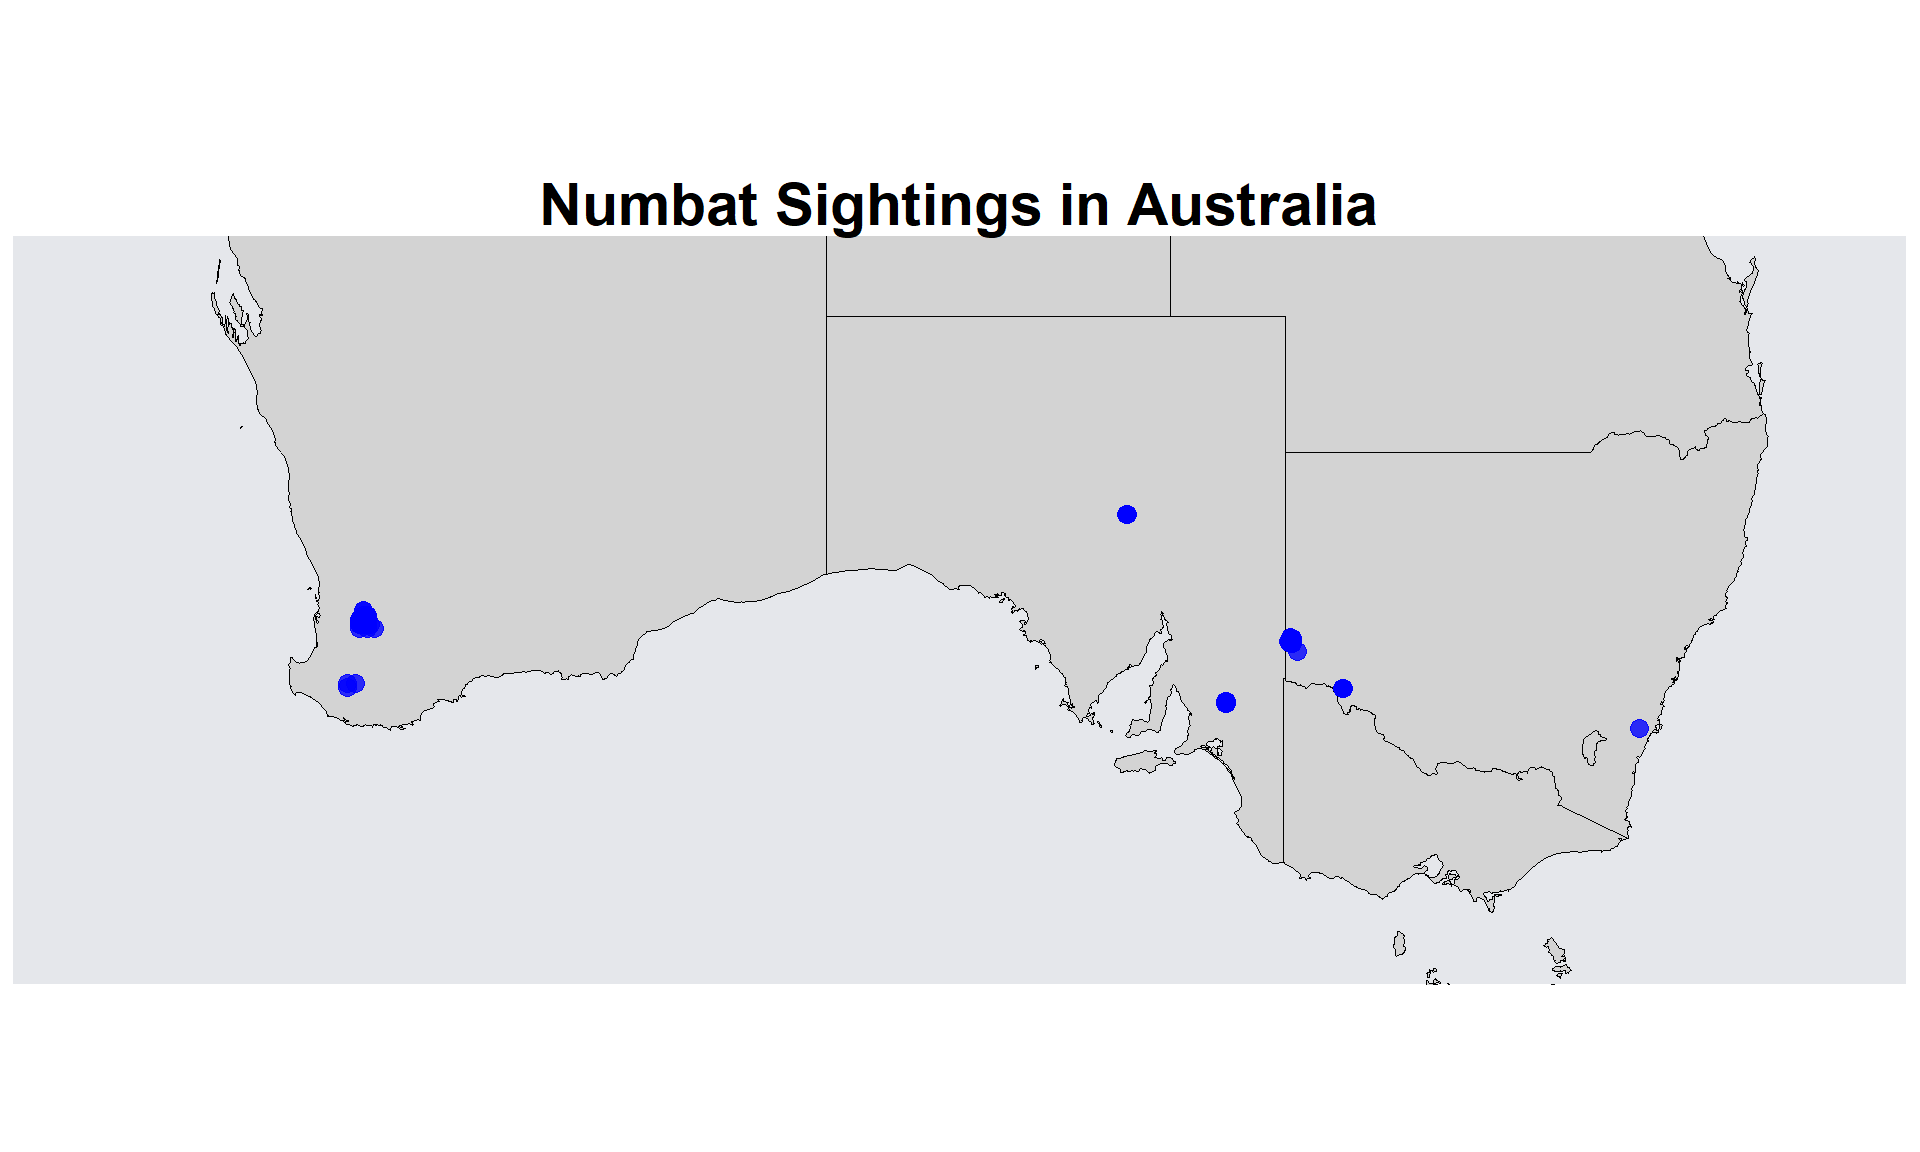
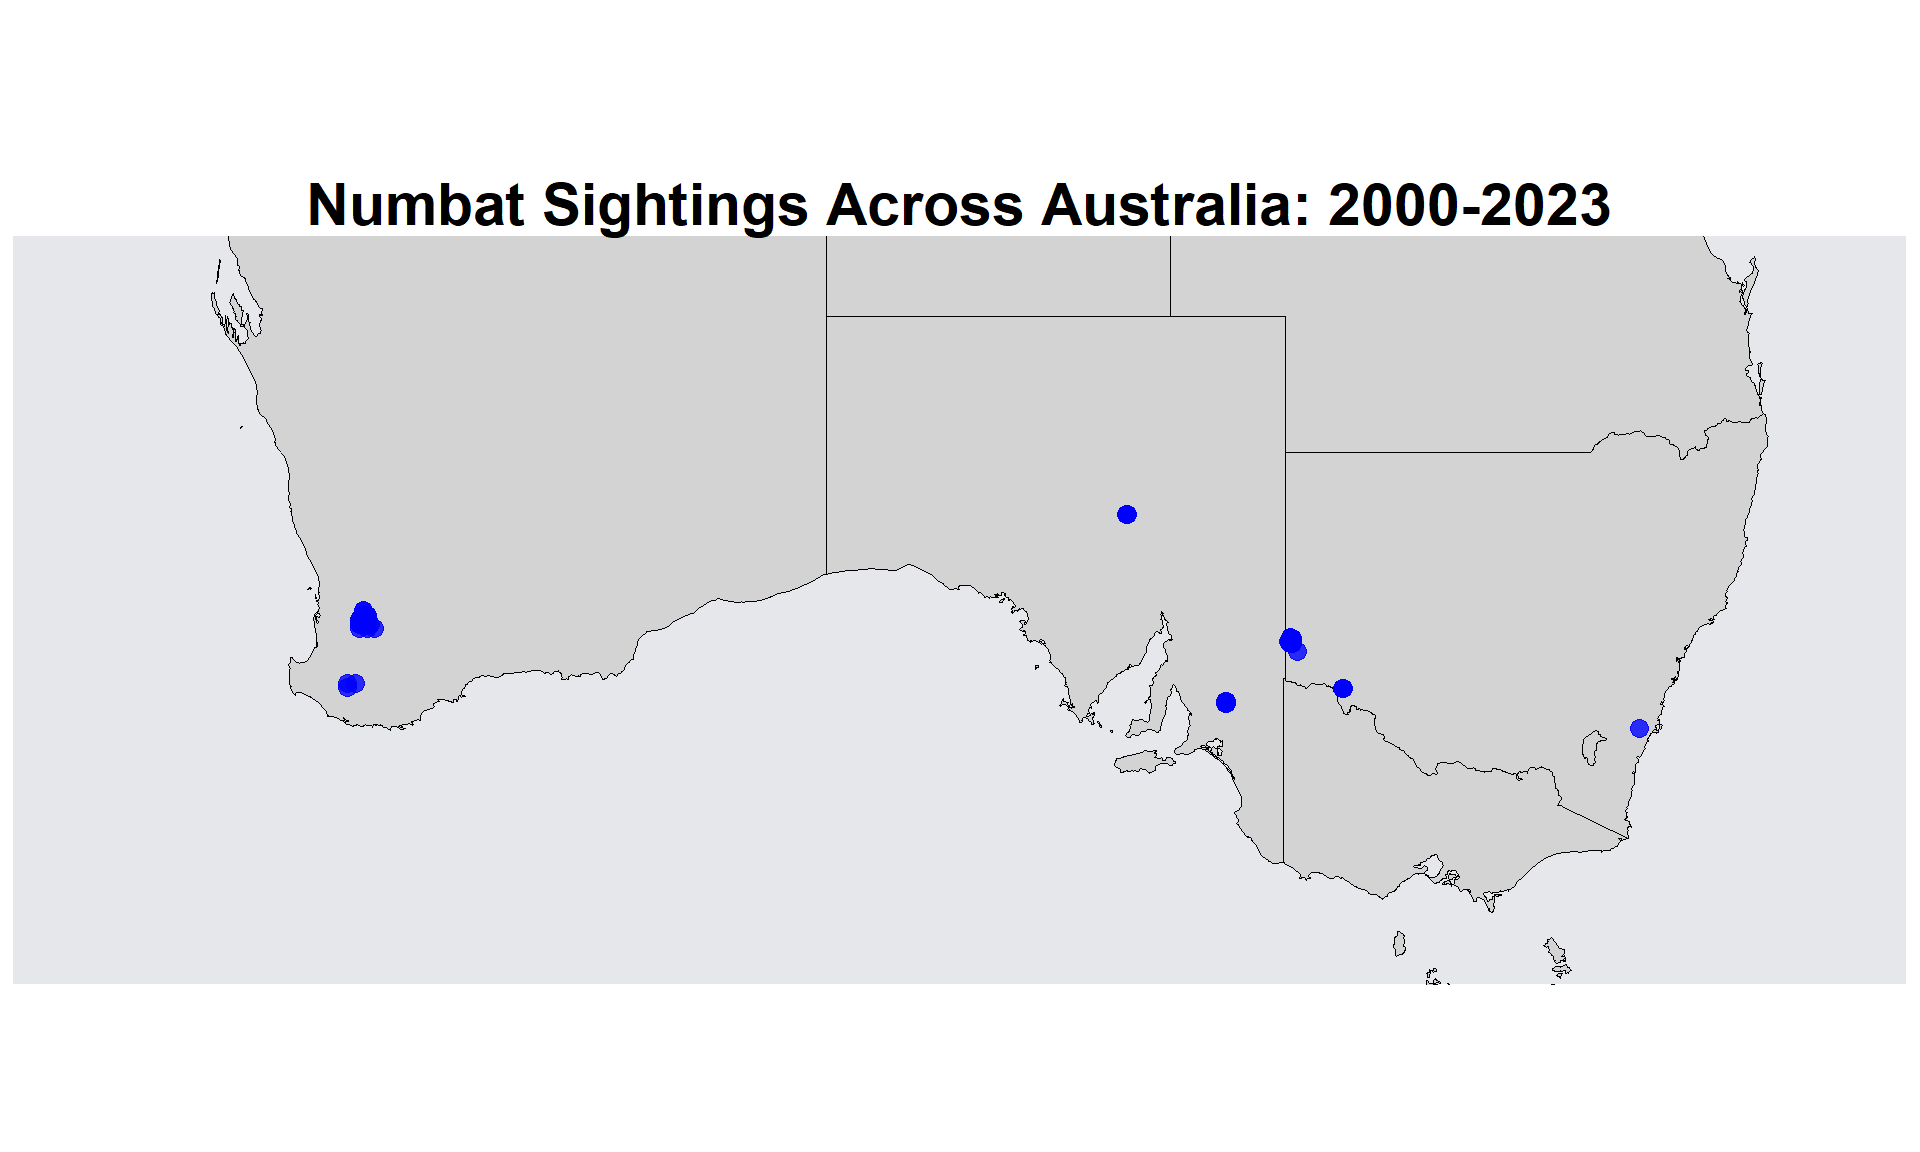
update the style.css, _quarto.yml and index.qmd file of post folder

Changed region(s): [[0.1562, 0.1562, 0.8438, 0.2188]]

diff --git a/docs/posts/welcome/index.html b/docs/posts/welcome/index.html
@@ -153,7 +153,12 @@ div.csl-indent {
 <span class="menu-text">About</span></a>
   </li>  
   <li class="nav-item compact">
-    <a class="nav-link" href="https://github.com/etc5523-2022"> <i class="bi bi-github" role="img">
+    <a class="nav-link" href="https://github.com/yasin27mohammad"> <i class="bi bi-github" role="img">
+</i> 
+<span class="menu-text"></span></a>
+  </li>  
+  <li class="nav-item compact">
+    <a class="nav-link" href="https://www.linkedin.com/in/mohammad-yasin-098787232/?trk=eml-email_pymk_02-header-0-profile_glimmer"> <i class="bi bi-linkedin" role="img">
 </i> 
 <span class="menu-text"></span></a>
   </li>  
@@ -210,7 +215,7 @@ div.csl-indent {
 <section id="problem-description" class="level2">
 <h2 class="anchored" data-anchor-id="problem-description"><strong>Problem Description</strong></h2>
 <div style="text-align: justify;">
-<p>The numbat (<code>Myrmecobius fasciatus</code>) is a small, termite-eating marsupial native to Australia, currently classified as endangered. Once widespread across the country, numbats are now confined to small, isolated areas of eucalypt woodlands due to habitat destruction, predation by invasive species, and environmental changes. Today, fewer than 1,000 numbats remain in the wild, with sightings concentrated mainly in southwestern Australia <span class="citation" data-cites="wwfnumbat">(<a href="#ref-wwfnumbat" role="doc-biblioref">World Wildlife Fund 2024</a>)</span>.</p>
+<p>The numbat (<strong>Myrmecobius fasciatus</strong>) is a small, termite-eating marsupial native to Australia, currently classified as endangered. Once widespread across the country, numbats are now confined to small, isolated areas of eucalypt woodlands due to habitat destruction, predation by invasive species, and environmental changes. Today, fewer than 1,000 numbats remain in the wild, with sightings concentrated mainly in southwestern Australia <span class="citation" data-cites="wwfnumbat">(<a href="#ref-wwfnumbat" role="doc-biblioref">World Wildlife Fund 2024</a>)</span>.</p>
 <p>This report focuses on analyzing numbat population trends and sightings between 2000 and 2023, including their geographical distribution and seasonal activity patterns. By examining these trends, we aim to provide insights that will support ongoing conservation efforts to protect this unique species.</p>
 </div>
 <p><img src="numbats.jpg" class="img-fluid"></p>
@@ -246,7 +251,7 @@ div.csl-indent {
 <div id="tbl-source" class="cell quarto-float anchored">
 <figure class="quarto-float quarto-float-tbl figure">
 <figcaption class="quarto-float-caption-top quarto-float-caption quarto-float-tbl" id="tbl-source-caption-0ceaefa1-69ba-4598-a22c-09a6ac19f8ca">
-Table&nbsp;1: Natural sightings source of numbats
+Table&nbsp;1: Numbat Sightings Recorded by Data Sources
 </figcaption>
 <div aria-describedby="tbl-source-caption-0ceaefa1-69ba-4598-a22c-09a6ac19f8ca">
 <div class="cell-output-display">
@@ -309,7 +314,7 @@ Table&nbsp;1: Natural sightings source of numbats
 <img src="index_files/figure-html/fig-map-1.png" class="img-fluid figure-img" width="960">
 </div>
 <figcaption class="quarto-float-caption-bottom quarto-float-caption quarto-float-fig" id="fig-map-caption-0ceaefa1-69ba-4598-a22c-09a6ac19f8ca">
-Figure&nbsp;1: Numbat Sightings in Australia
+Figure&nbsp;1: Geographical Distribution of Numbat Sightings in Australia from 2000 to 2023
 </figcaption>
 </figure>
 </div>
@@ -353,7 +358,7 @@ Figure&nbsp;2: Sightings of Numbats
 <img src="index_files/figure-html/fig-season-1.png" class="img-fluid figure-img" width="672">
 </div>
 <figcaption class="quarto-float-caption-bottom quarto-float-caption quarto-float-fig" id="fig-season-caption-0ceaefa1-69ba-4598-a22c-09a6ac19f8ca">
-Figure&nbsp;3: Sightings by Season
+Figure&nbsp;3: Seasonal Distribution of Numbat Sightings
 </figcaption>
 </figure>
 </div>

diff --git a/docs/index.html b/docs/index.html
@@ -153,7 +153,12 @@ window.Quarto = {
 <span class="menu-text">About</span></a>
   </li>  
   <li class="nav-item compact">
-    <a class="nav-link" href="https://github.com/etc5523-2022"> <i class="bi bi-github" role="img">
+    <a class="nav-link" href="https://github.com/yasin27mohammad"> <i class="bi bi-github" role="img">
+</i> 
+<span class="menu-text"></span></a>
+  </li>  
+  <li class="nav-item compact">
+    <a class="nav-link" href="https://www.linkedin.com/in/mohammad-yasin-098787232/?trk=eml-email_pymk_02-header-0-profile_glimmer"> <i class="bi bi-linkedin" role="img">
 </i> 
 <span class="menu-text"></span></a>
   </li>  
@@ -200,7 +205,7 @@ window.Quarto = {
 
 <div class="quarto-listing quarto-listing-container-default" id="listing-listing">
 <div class="list quarto-listing-default">
-<div class="quarto-post image-right" data-index="0" data-categories="article" data-listing-date-sort="1727964000000" data-listing-file-modified-sort="1728028156150" data-listing-date-modified-sort="NaN" data-listing-reading-time-sort="12" data-listing-word-count-sort="2246">
+<div class="quarto-post image-right" data-index="0" data-categories="article" data-listing-date-sort="1727964000000" data-listing-file-modified-sort="1728043480876" data-listing-date-modified-sort="NaN" data-listing-reading-time-sort="12" data-listing-word-count-sort="2259">
 <div class="thumbnail">
 <p><a href="./posts/welcome/index.html" class="no-external"></a></p><a href="./posts/welcome/index.html" class="no-external">
 <p class="card-img-top"><img src="posts\welcome\numbats.jpg"  class="thumbnail-image card-img"/></p>
@@ -219,7 +224,7 @@ article
 </div>
 </div>
 <div class="listing-description">
-<a href="./posts/welcome/index.html" class="no-external">The numbat (<code>Myrmecobius fasciatus</code>) is a small, termite-eating marsupial native to Australia, currently classified as endangered. Once widespread across the country, numbats…<span class="citation" data-cites="wwfnumbat"></span></a>
+<a href="./posts/welcome/index.html" class="no-external">The numbat (<strong>Myrmecobius fasciatus</strong>) is a small, termite-eating marsupial native to Australia, currently classified as endangered. Once widespread across the country, numbats…<span class="citation" data-cites="wwfnumbat"></span></a>
 </div>
 </div>
 <div class="metadata">

diff --git a/docs/about.html b/docs/about.html
@@ -92,7 +92,12 @@ ul.task-list li input[type="checkbox"] {
 <span class="menu-text">About</span></a>
   </li>  
   <li class="nav-item compact">
-    <a class="nav-link" href="https://github.com/etc5523-2022"> <i class="bi bi-github" role="img">
+    <a class="nav-link" href="https://github.com/yasin27mohammad"> <i class="bi bi-github" role="img">
+</i> 
+<span class="menu-text"></span></a>
+  </li>  
+  <li class="nav-item compact">
+    <a class="nav-link" href="https://www.linkedin.com/in/mohammad-yasin-098787232/?trk=eml-email_pymk_02-header-0-profile_glimmer"> <i class="bi bi-linkedin" role="img">
 </i> 
 <span class="menu-text"></span></a>
   </li>  
@@ -140,9 +145,13 @@ ul.task-list li input[type="checkbox"] {
 </main></div>
   </div>
   <div class="about-links">
-  <a href="https://github.com/ETC5523-2024/assignment-3-creating-a-blog-yasin27mohammad" class="about-link" rel="" target="">
+  <a href="https://github.com/yasin27mohammad" class="about-link" rel="" target="">
     <i class="bi bi-github"></i>
      <span class="about-link-text">Github</span>
+  </a>
+  <a href="https://www.linkedin.com/in/mohammad-yasin-098787232/?trk=eml-email_pymk_02-header-0-profile_glimmer" class="about-link" rel="" target="">
+    <i class="bi bi-linkedin"></i>
+     <span class="about-link-text">Linkedin</span>
   </a>
 </div>
 </div>

diff --git a/docs/styles.css b/docs/styles.css
@@ -13,6 +13,3 @@
   text-shadow: 2px 2px 2px rgba(0, 0, 0, 0.7); /* Slight black shadow */
 }
 
-
-
-

diff --git a/styles.css b/styles.css
@@ -13,6 +13,3 @@
   text-shadow: 2px 2px 2px rgba(0, 0, 0, 0.7); /* Slight black shadow */
 }
 
-
-
-
